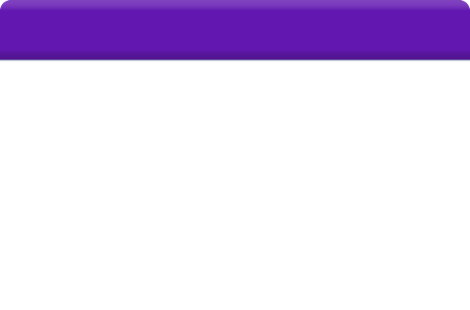
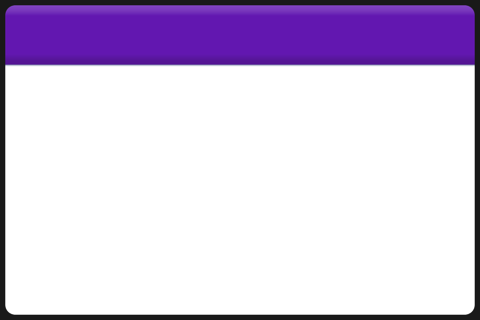
Updated iPhone background graphics for story interactions to include black border. iPhone content view size is now 470x250.

Changed region(s): [[0.0, 0.0, 1.0, 1.0]]

diff --git a/Shared/SCHStoryInteractionController.m b/Shared/SCHStoryInteractionController.m
@@ -131,7 +131,7 @@ typedef void (^PlayAudioCompletionBlock)(void);
             contentInsets = UIEdgeInsetsMake(130, 40, 40, 40);
             titleInsets = UIEdgeInsetsMake(40, 40, 26, 40);
         } else {
-            contentInsets = UIEdgeInsetsMake(64, 5, 5, 5);
+            contentInsets = UIEdgeInsetsMake(70, 5, 5, 5);
             titleInsets = UIEdgeInsetsMake(5, 30, 5, 30);
         }
         
@@ -150,7 +150,7 @@ typedef void (^PlayAudioCompletionBlock)(void);
         
         // first object in the NIB must be the container view for the interaction
         self.contentsView = [self.nibObjects objectAtIndex:self.currentScreenIndex];
-        if (!iPad && (CGRectGetWidth(self.contentsView.bounds) > 470 || CGRectGetHeight(self.contentsView.bounds) > 256)) {
+        if (!iPad && (CGRectGetWidth(self.contentsView.bounds) > 470 || CGRectGetHeight(self.contentsView.bounds) > 250)) {
             NSLog(@"contentView %d is too large: %@", self.currentScreenIndex, NSStringFromCGRect(self.contentsView.bounds));
         }
         
